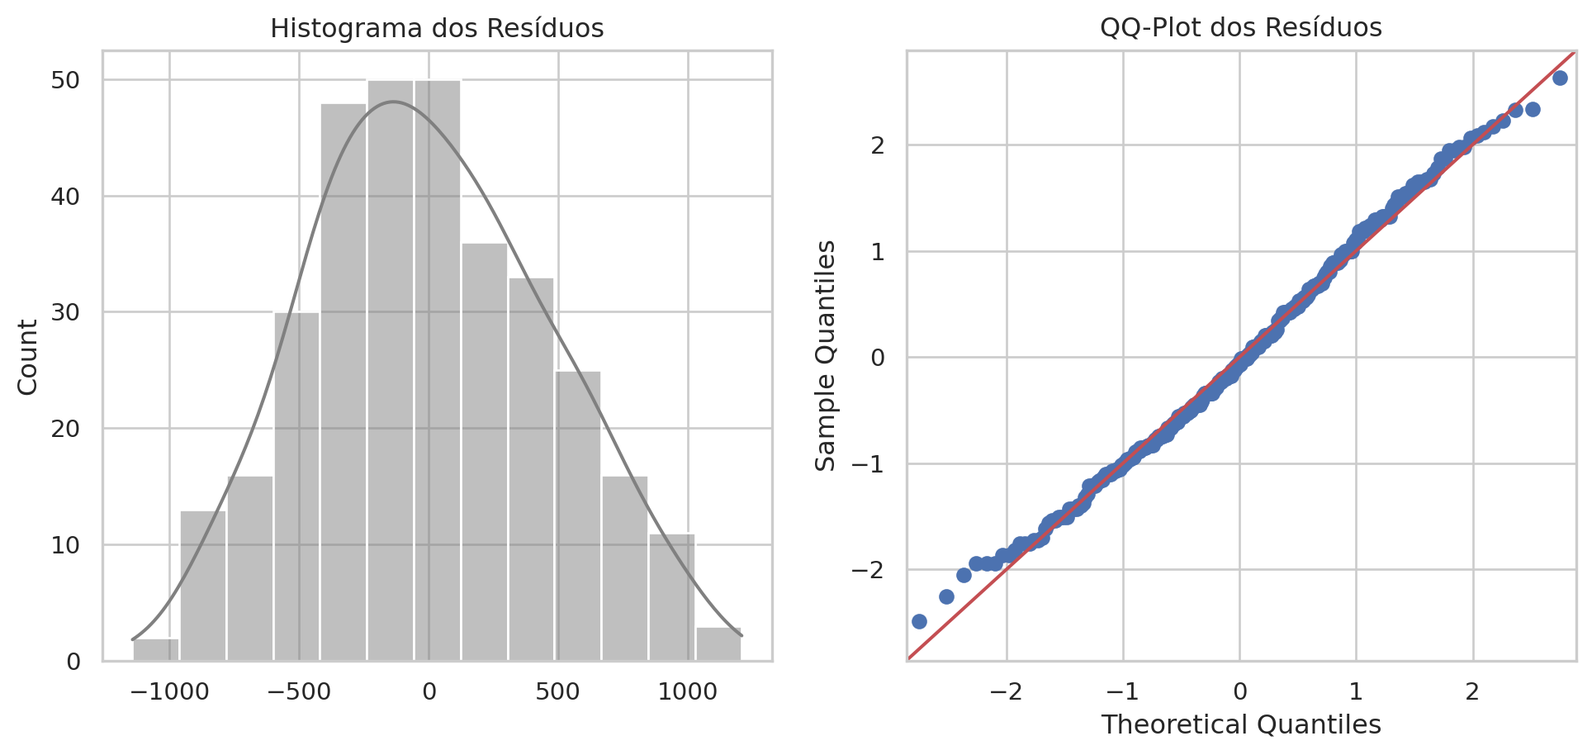
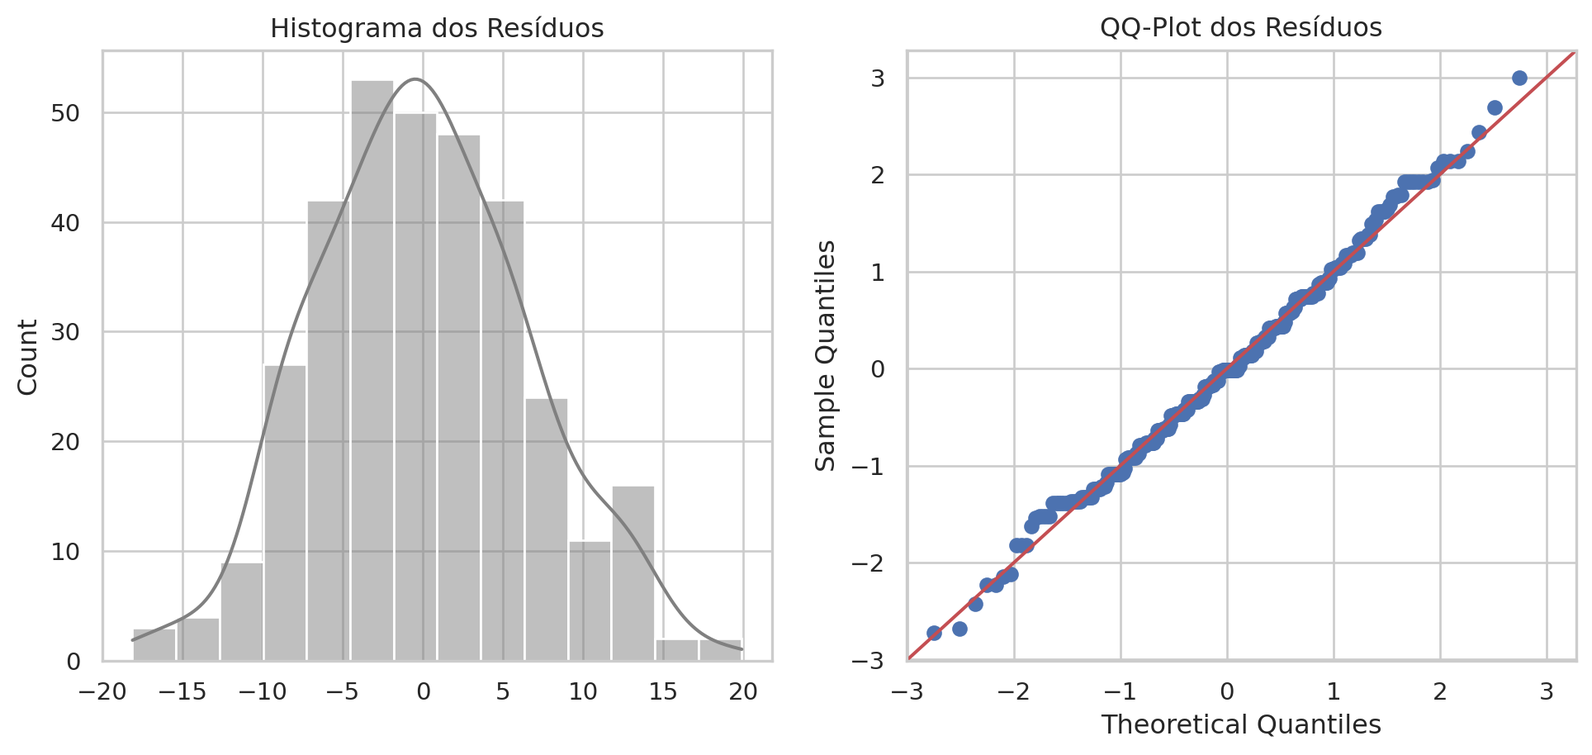
aula_03: fix example

diff --git a/aulas/dia_03/dia_03.html b/aulas/dia_03/dia_03.html
@@ -216,7 +216,7 @@ Matheus Pimenta
 </section>
 <section id="carregando-bibliotecas-e-dados" class="slide level2 center">
 <h2>Carregando Bibliotecas e Dados</h2>
-<div id="b4c679b3" class="cell" data-execution_count="1">
+<div id="4f0ebbf3" class="cell" data-execution_count="1">
 <div class="code-copy-outer-scaffold"><div class="sourceCode cell-code" id="cb1"><pre class="sourceCode numberSource python number-lines code-with-copy"><code class="sourceCode python"><span id="cb1-1"><a href=""></a><span class="im">import</span> pandas <span class="im">as</span> pd</span>
 <span id="cb1-2"><a href=""></a><span class="im">import</span> numpy <span class="im">as</span> np</span>
 <span id="cb1-3"><a href=""></a><span class="im">import</span> seaborn <span class="im">as</span> sns</span>
@@ -312,7 +312,7 @@ Matheus Pimenta
 </section>
 <section class="slide level2 center">
 
-<div id="422fee9e" class="cell" data-execution_count="2">
+<div id="02c14a70" class="cell" data-execution_count="2">
 <div class="code-copy-outer-scaffold"><div class="sourceCode cell-code" id="cb2"><pre class="sourceCode numberSource python number-lines code-with-copy"><code class="sourceCode python"><span id="cb2-1"><a href=""></a><span class="co"># 1. Selecionar dados (apenas da espécie Adelie para evitar bimodalidade)</span></span>
 <span id="cb2-2"><a href=""></a>dados_adelie <span class="op">=</span> penguins[penguins[<span class="st">'species'</span>] <span class="op">==</span> <span class="st">'Adelie'</span>][<span class="st">'flipper_length_mm'</span>]</span>
 <span id="cb2-3"><a href=""></a>media_empirica, desvio_empirico <span class="op">=</span> dados_adelie.mean(), dados_adelie.std()</span>
@@ -370,7 +370,7 @@ Média estimada: 190.10, Desvio Padrão: 6.50</code></pre>
 <p>Qual a probabilidade de encontrarmos um pinguim Adélia com nadadeira <strong>menor que 185 mm</strong>?</p>
 <p><span class="math display">\[ P(X &lt; 185) = \int_{-\infty}^{185} f(x)\,dx \]</span></p>
 <p>No Python, usamos a <strong>CDF (Cumulative Distribution Function)</strong>.</p>
-<div id="c0b1cf49" class="cell" data-execution_count="3">
+<div id="8e774a43" class="cell" data-execution_count="3">
 <div class="code-copy-outer-scaffold"><div class="sourceCode cell-code" id="cb4"><pre class="sourceCode numberSource python number-lines code-with-copy"><code class="sourceCode python"><span id="cb4-1"><a href=""></a>prob <span class="op">=</span> stats.norm.cdf(<span class="dv">185</span>, loc<span class="op">=</span>mu, scale<span class="op">=</span>sigma)</span>
 <span id="cb4-2"><a href=""></a><span class="bu">print</span>(<span class="ss">f"Probabilidade teórica (P &lt; 185mm): </span><span class="sc">{</span>prob<span class="sc">:.2%}</span><span class="ss">"</span>)</span>
 <span id="cb4-3"><a href=""></a></span>
@@ -385,7 +385,7 @@ Frequência nos dados reais: 18.49%</code></pre>
 </section>
 <section class="slide level2 center">
 
-<div id="ecd27ba7" class="cell" data-execution_count="4">
+<div id="42da7d04" class="cell" data-execution_count="4">
 <div class="code-copy-outer-scaffold"><div class="sourceCode cell-code" id="cb6"><pre class="sourceCode numberSource python number-lines code-with-copy"><code class="sourceCode python"><span id="cb6-1"><a href=""></a><span class="co"># Gráfico indicando a área sob a curva</span></span>
 <span id="cb6-2"><a href=""></a>plt.figure(figsize<span class="op">=</span>(<span class="dv">10</span>, <span class="dv">5</span>))</span>
 <span id="cb6-3"><a href=""></a>sns.histplot(dados_adelie, stat<span class="op">=</span><span class="st">"density"</span>, kde<span class="op">=</span><span class="va">False</span>, label<span class="op">=</span><span class="st">"Dados Empíricos"</span>, color<span class="op">=</span><span class="st">"skyblue"</span>)</span>
@@ -428,7 +428,7 @@ Frequência nos dados reais: 18.49%</code></pre>
 </section>
 <section id="simulando-a-binomial" class="slide level2 center">
 <h2>Simulando a Binomial</h2>
-<div id="0373079f" class="cell" data-execution_count="5">
+<div id="b14e5f96" class="cell" data-execution_count="5">
 <div class="code-copy-outer-scaffold"><div class="sourceCode cell-code" id="cb7"><pre class="sourceCode numberSource python number-lines code-with-copy"><code class="sourceCode python"><span id="cb7-1"><a href=""></a><span class="co"># 1. Definir parâmetros</span></span>
 <span id="cb7-2"><a href=""></a>n_tentativas <span class="op">=</span> <span class="dv">10</span>  <span class="co"># Tamanho da amostra que vamos coletar</span></span>
 <span id="cb7-3"><a href=""></a></span>
@@ -479,7 +479,7 @@ Frequência nos dados reais: 18.49%</code></pre>
 <blockquote>
 <p>Suponha que, historicamente, encontramos uma média de <strong>2 pinguins com peso muito baixo (&lt;3000 g)</strong> por dia de expedição. Qual a probabilidade de <strong>hoje encontrarmos 5</strong>?</p>
 </blockquote>
-<div id="7a4040be" class="cell" data-execution_count="6">
+<div id="7db29316" class="cell" data-execution_count="6">
 <div class="code-copy-outer-scaffold"><div class="sourceCode cell-code" id="cb9"><pre class="sourceCode numberSource python number-lines code-with-copy"><code class="sourceCode python"><span id="cb9-1"><a href=""></a><span class="co"># 1. Parâmetro Lambda</span></span>
 <span id="cb9-2"><a href=""></a>lambda_pinguins <span class="op">=</span> <span class="dv">2</span>  <span class="co"># Média esperada</span></span>
 <span id="cb9-3"><a href=""></a><span class="co"># 2. Calcular probabilidades</span></span>
@@ -537,7 +537,7 @@ Frequência nos dados reais: 18.49%</code></pre>
 <section id="visualizando-normal-vs-t-de-student" class="slide level2 center">
 <h2>Visualizando: Normal vs t de Student</h2>
 <p>Quanto menor o <span class="math inline">\(df\)</span>, mais “achatada” a curva e mais “gordas” as caudas. Conforme <span class="math inline">\(n \to \infty\)</span>, a t converge para a Normal.</p>
-<div id="455e81e8" class="cell" data-execution_count="7">
+<div id="64ab29b4" class="cell" data-execution_count="7">
 <div class="code-copy-outer-scaffold"><div class="sourceCode cell-code" id="cb10"><pre class="sourceCode numberSource python number-lines code-with-copy"><code class="sourceCode python"><span id="cb10-1"><a href=""></a>x <span class="op">=</span> np.linspace(<span class="op">-</span><span class="dv">4</span>, <span class="dv">4</span>, <span class="dv">200</span>)</span>
 <span id="cb10-2"><a href=""></a>plt.figure(figsize<span class="op">=</span>(<span class="dv">10</span>, <span class="dv">5</span>))</span>
 <span id="cb10-3"><a href=""></a></span>
@@ -724,7 +724,7 @@ Frequência nos dados reais: 18.49%</code></pre>
 <section id="análise-exploratória-visual" class="slide level2 center">
 <h2>1. Análise Exploratória Visual</h2>
 <p>Antes de qualquer teste, <strong>olhe os dados</strong>.</p>
-<div id="fa1914a6" class="cell" data-execution_count="8">
+<div id="3fc2e7e7" class="cell" data-execution_count="8">
 <div class="code-copy-outer-scaffold"><div class="sourceCode cell-code" id="cb11"><pre class="sourceCode numberSource python number-lines code-with-copy"><code class="sourceCode python"><span id="cb11-1"><a href=""></a><span class="co"># Filtrando os dados</span></span>
 <span id="cb11-2"><a href=""></a>adelie <span class="op">=</span> penguins[penguins[<span class="st">'species'</span>] <span class="op">==</span> <span class="st">'Adelie'</span>][<span class="st">'bill_length_mm'</span>]</span>
 <span id="cb11-3"><a href=""></a>chinstrap <span class="op">=</span> penguins[penguins[<span class="st">'species'</span>] <span class="op">==</span> <span class="st">'Chinstrap'</span>][<span class="st">'bill_length_mm'</span>]</span>
@@ -756,7 +756,7 @@ Frequência nos dados reais: 18.49%</code></pre>
 </div>
 </div></section><section class="slide level2 center">
 
-<div id="e7fe2162" class="cell" data-execution_count="9">
+<div id="b32d4e5b" class="cell" data-execution_count="9">
 <div class="code-copy-outer-scaffold"><div class="sourceCode cell-code" id="cb12"><pre class="sourceCode numberSource python number-lines code-with-copy"><code class="sourceCode python"><span id="cb12-1"><a href=""></a><span class="co"># Histogramas sobrepostos</span></span>
 <span id="cb12-2"><a href=""></a>plt.figure(figsize<span class="op">=</span>(<span class="dv">10</span>, <span class="dv">6</span>))</span>
 <span id="cb12-3"><a href=""></a>sns.histplot(adelie, color<span class="op">=</span><span class="st">'blue'</span>, label<span class="op">=</span><span class="st">'Adelie'</span>, stat<span class="op">=</span><span class="st">'density'</span>, kde<span class="op">=</span><span class="va">True</span>, alpha<span class="op">=</span><span class="fl">0.6</span>)</span>
@@ -788,7 +788,7 @@ Frequência nos dados reais: 18.49%</code></pre>
 
 <h3 id="teste-de-normalidade-shapirowilk">Teste de Normalidade (Shapiro–Wilk)</h3>
 <p><span class="math display">\[ H_0: \text{Os dados seguem uma distribuição Normal.} \]</span></p>
-<div id="7a6a8167" class="cell" data-execution_count="10">
+<div id="50393502" class="cell" data-execution_count="10">
 <div class="code-copy-outer-scaffold"><div class="sourceCode cell-code" id="cb13"><pre class="sourceCode numberSource python number-lines code-with-copy"><code class="sourceCode python"><span id="cb13-1"><a href=""></a><span class="co"># Testando normalidade para cada grupo</span></span>
 <span id="cb13-2"><a href=""></a>stat_ad, p_ad <span class="op">=</span> stats.shapiro(adelie)</span>
 <span id="cb13-3"><a href=""></a>stat_ch, p_ch <span class="op">=</span> stats.shapiro(chinstrap)</span>
@@ -811,7 +811,7 @@ Assumimos normalidade em ambos os grupos.</code></pre>
 
 <h3 id="visualizando-a-normalidade-qq-plot">Visualizando a Normalidade (QQ-Plot)</h3>
 <p>Compara quantis dos dados vs quantis teóricos. Se os pontos caem na diagonal, é normal.</p>
-<div id="64644972" class="cell" data-execution_count="11">
+<div id="1de6e6d9" class="cell" data-execution_count="11">
 <div class="code-copy-outer-scaffold"><div class="sourceCode cell-code" id="cb15"><pre class="sourceCode numberSource python number-lines code-with-copy"><code class="sourceCode python"><span id="cb15-1"><a href=""></a>fig, ax <span class="op">=</span> plt.subplots(<span class="dv">1</span>, <span class="dv">2</span>, figsize<span class="op">=</span>(<span class="dv">12</span>, <span class="dv">5</span>))</span>
 <span id="cb15-2"><a href=""></a></span>
 <span id="cb15-3"><a href=""></a>stats.probplot(adelie, dist<span class="op">=</span><span class="st">"norm"</span>, plot<span class="op">=</span>ax[<span class="dv">0</span>])</span>
@@ -848,7 +848,7 @@ Assumimos normalidade em ambos os grupos.</code></pre>
 </div>
 </div>
 </div>
-<div id="65894c09" class="cell" data-execution_count="12">
+<div id="eda215df" class="cell" data-execution_count="12">
 <div class="code-copy-outer-scaffold"><div class="sourceCode cell-code" id="cb16"><pre class="sourceCode numberSource python number-lines code-with-copy"><code class="sourceCode python"><span id="cb16-1"><a href=""></a><span class="co"># Teste de Levene para igualdade de variâncias</span></span>
 <span id="cb16-2"><a href=""></a>stat_lev, p_lev <span class="op">=</span> stats.levene(adelie, chinstrap)</span>
 <span id="cb16-3"><a href=""></a><span class="bu">print</span>(<span class="ss">f"Teste de Levene (Homocedasticidade): p=</span><span class="sc">{</span>p_lev<span class="sc">:.4f}</span><span class="ss">"</span>)</span>
@@ -872,7 +872,7 @@ P-valor: 3.15e-41</code></pre>
 </section>
 <section id="interpretação-dos-resultados" class="slide level2 center">
 <h2>4. Interpretação dos Resultados</h2>
-<div id="2ea4df0f" class="cell" data-execution_count="13">
+<div id="ac8f2ae9" class="cell" data-execution_count="13">
 <div class="code-copy-outer-scaffold"><div class="sourceCode cell-code" id="cb18"><pre class="sourceCode numberSource python number-lines code-with-copy"><code class="sourceCode python"><span id="cb18-1"><a href=""></a>alpha <span class="op">=</span> <span class="fl">0.05</span></span>
 <span id="cb18-2"><a href=""></a><span class="bu">print</span>(<span class="ss">f"Média Adelie: </span><span class="sc">{</span>adelie<span class="sc">.</span>mean()<span class="sc">:.2f}</span><span class="ss"> mm | Média Chinstrap: </span><span class="sc">{</span>chinstrap<span class="sc">.</span>mean()<span class="sc">:.2f}</span><span class="ss"> mm"</span>)</span>
 <span id="cb18-3"><a href=""></a><span class="bu">print</span>(<span class="ss">f"Diferença: </span><span class="sc">{</span>chinstrap<span class="sc">.</span>mean() <span class="op">-</span> adelie<span class="sc">.</span>mean()<span class="sc">:.2f}</span><span class="ss"> mm"</span>)</span>
@@ -907,7 +907,7 @@ Há evidência estatística de diferença significativa entre as médias.</code>
 </section>
 <section class="slide level2 center">
 
-<div id="6dad7a69" class="cell" data-execution_count="14">
+<div id="72040004" class="cell" data-execution_count="14">
 <div class="code-copy-outer-scaffold"><div class="sourceCode cell-code" id="cb20"><pre class="sourceCode numberSource python number-lines code-with-copy"><code class="sourceCode python"><span id="cb20-1"><a href=""></a>dados <span class="op">=</span> penguins[penguins[<span class="st">'species'</span>].isin([<span class="st">'Adelie'</span>, <span class="st">'Chinstrap'</span>])]</span>
 <span id="cb20-2"><a href=""></a>plt.figure(figsize<span class="op">=</span>(<span class="dv">10</span>, <span class="dv">6</span>))</span>
 <span id="cb20-3"><a href=""></a><span class="co"># Boxplot</span></span>
@@ -983,47 +983,47 @@ Há evidência estatística de diferença significativa entre as médias.</code>
 
 <p><strong>Hipóteses:</strong> <span class="math display">\[ H_0: \mu_1 = \mu_2 = \mu_3 \]</span> <span class="math display">\[ H_1: \exists\, i,j \text{ tal que } \mu_i \neq \mu_j \]</span></p>
 </section>
-<section id="estudo-de-caso-massa-corporal" class="slide level2 center">
-<h2>Estudo de Caso: Massa Corporal</h2>
-<p><strong>Pergunta:</strong> Existe diferença significativa na massa corporal (<code>body_mass_g</code>) entre as três espécies?</p>
-<div id="b2c72129" class="cell" data-execution_count="15">
+<section id="estudo-de-caso-tamanho-da-nadadeira" class="slide level2 center">
+<h2>Estudo de Caso: Tamanho da Nadadeira</h2>
+<p><strong>Pergunta:</strong> Existe diferença significativa no tamanho da nadadeira (<code>flipper_length_mm</code>) entre as três espécies?</p>
+<div id="5c877ac5" class="cell" data-execution_count="15">
 <div class="code-copy-outer-scaffold"><div class="sourceCode cell-code" id="cb21"><pre class="sourceCode numberSource python number-lines code-with-copy"><code class="sourceCode python"><span id="cb21-1"><a href=""></a>plt.figure(figsize<span class="op">=</span>(<span class="dv">10</span>, <span class="dv">6</span>))</span>
 <span id="cb21-2"><a href=""></a>sns.boxplot(</span>
-<span id="cb21-3"><a href=""></a>    x<span class="op">=</span><span class="st">'species'</span>, y<span class="op">=</span><span class="st">'body_mass_g'</span>, hue<span class="op">=</span><span class="st">'species'</span>,</span>
+<span id="cb21-3"><a href=""></a>    x<span class="op">=</span><span class="st">'species'</span>, y<span class="op">=</span><span class="st">'flipper_length_mm'</span>, hue<span class="op">=</span><span class="st">'species'</span>,</span>
 <span id="cb21-4"><a href=""></a>    data<span class="op">=</span>penguins, palette<span class="op">=</span><span class="st">"Set2"</span>, showmeans<span class="op">=</span><span class="va">True</span></span>
 <span id="cb21-5"><a href=""></a>)</span>
 <span id="cb21-6"><a href=""></a>sns.stripplot(</span>
-<span id="cb21-7"><a href=""></a>    x<span class="op">=</span><span class="st">'species'</span>, y<span class="op">=</span><span class="st">'body_mass_g'</span>, </span>
+<span id="cb21-7"><a href=""></a>    x<span class="op">=</span><span class="st">'species'</span>, y<span class="op">=</span><span class="st">'flipper_length_mm'</span>, </span>
 <span id="cb21-8"><a href=""></a>    data<span class="op">=</span>penguins, color<span class="op">=</span><span class="st">".25"</span>, </span>
 <span id="cb21-9"><a href=""></a>    alpha<span class="op">=</span><span class="fl">0.5</span>, jitter<span class="op">=</span><span class="va">True</span></span>
 <span id="cb21-10"><a href=""></a>)</span>
-<span id="cb21-11"><a href=""></a>plt.title(<span class="st">'Distribuição de Massa Corporal por Espécie'</span>)</span>
+<span id="cb21-11"><a href=""></a>plt.title(<span class="st">'Distribuição do Tamanho da Nadadeira por Espécie'</span>)</span>
 <span id="cb21-12"><a href=""></a>plt.show()</span></code></pre></div><button title="Copiar para a área de transferência" class="code-copy-button"><i class="bi"></i></button></div>
 </div>
 
 </section>
-<section id="estudo-de-caso-massa-corporal-output" class="slide level2 output-location-slide center"><h2>Estudo de Caso: Massa Corporal</h2><div class="cell output-location-slide" data-execution_count="15">
+<section id="estudo-de-caso-tamanho-da-nadadeira-output" class="slide level2 output-location-slide center"><h2>Estudo de Caso: Tamanho da Nadadeira</h2><div class="cell output-location-slide" data-execution_count="15">
 <div class="cell-output cell-output-display">
 <div>
 <figure>
-<p><img data-src="dia_03_files/figure-revealjs/cell-16-output-1.png" width="835" height="531"></p>
+<p><img data-src="dia_03_files/figure-revealjs/cell-16-output-1.png" width="825" height="531"></p>
 </figure>
 </div>
 </div>
 </div></section><section id="construindo-o-modelo-ols" class="slide level2 center">
 <h2>2. Construindo o Modelo (OLS)</h2>
-<p>Usaremos <code>statsmodels</code>. Sintaxe: <code>body_mass_g ~ species</code> (“Massa explicada pela espécie”).</p>
-<div id="783be97c" class="cell" data-execution_count="16">
+<p>Usaremos <code>statsmodels</code>. Sintaxe: <code>flipper_length_mm ~ species</code> (“Tamanho da nadadeira explicado pela espécie”).</p>
+<div id="0514a141" class="cell" data-execution_count="16">
 <div class="code-copy-outer-scaffold"><div class="sourceCode cell-code" id="cb22"><pre class="sourceCode numberSource python number-lines code-with-copy"><code class="sourceCode python"><span id="cb22-1"><a href=""></a><span class="co"># Ajuste do modelo (Ordinary Least Squares)</span></span>
-<span id="cb22-2"><a href=""></a>modelo_anova <span class="op">=</span> ols(<span class="st">'body_mass_g ~ species'</span>, data<span class="op">=</span>penguins).fit()</span>
+<span id="cb22-2"><a href=""></a>modelo_anova <span class="op">=</span> ols(<span class="st">'flipper_length_mm ~ species'</span>, data<span class="op">=</span>penguins).fit()</span>
 <span id="cb22-3"><a href=""></a></span>
 <span id="cb22-4"><a href=""></a><span class="co"># Tabela ANOVA</span></span>
 <span id="cb22-5"><a href=""></a>tabela_anova <span class="op">=</span> sm.stats.anova_lm(modelo_anova, typ<span class="op">=</span><span class="dv">2</span>)</span>
 <span id="cb22-6"><a href=""></a><span class="bu">print</span>(tabela_anova)</span></code></pre></div><button title="Copiar para a área de transferência" class="code-copy-button"><i class="bi"></i></button></div>
 <div class="cell-output cell-output-stdout">
-<pre><code>                sum_sq     df           F        PR(&gt;F)
-species   1.451902e+08    2.0  341.894895  3.744505e-81
-Residual  7.006945e+07  330.0         NaN           NaN</code></pre>
+<pre><code>                sum_sq     df           F         PR(&gt;F)
+species   50525.883615    2.0  567.406992  1.587418e-107
+Residual  14692.753022  330.0         NaN            NaN</code></pre>
 </div>
 </div>
 <p><strong>Interpretação:</strong> Observe a coluna <strong>PR(&gt;F)</strong>. Se <span class="math inline">\(p &lt; 0.05\)</span>, rejeitamos <span class="math inline">\(H_0\)</span> (existe diferença significativa).</p>
@@ -1052,7 +1052,7 @@ Residual  7.006945e+07  330.0         NaN           NaN</code></pre>
 <section class="slide level2 center">
 
 <h3 id="diagnóstico-de-resíduos">Diagnóstico de Resíduos</h3>
-<div id="b1856875" class="cell" data-execution_count="17">
+<div id="c54d651c" class="cell" data-execution_count="17">
 <div class="code-copy-outer-scaffold"><div class="sourceCode cell-code" id="cb24"><pre class="sourceCode numberSource python number-lines code-with-copy"><code class="sourceCode python"><span id="cb24-1"><a href=""></a>residuos <span class="op">=</span> modelo_anova.resid</span>
 <span id="cb24-2"><a href=""></a></span>
 <span id="cb24-3"><a href=""></a><span class="co"># 1. Normalidade dos Resíduos (Shapiro-Wilk)</span></span>
@@ -1061,9 +1061,9 @@ Residual  7.006945e+07  330.0         NaN           NaN</code></pre>
 <span id="cb24-6"><a href=""></a></span>
 <span id="cb24-7"><a href=""></a><span class="co"># 2. Homocedasticidade (Levene)</span></span>
 <span id="cb24-8"><a href=""></a>stat_lev, p_lev <span class="op">=</span> stats.levene(</span>
-<span id="cb24-9"><a href=""></a>    penguins[penguins[<span class="st">'species'</span>] <span class="op">==</span> <span class="st">'Adelie'</span>][<span class="st">'body_mass_g'</span>],</span>
-<span id="cb24-10"><a href=""></a>    penguins[penguins[<span class="st">'species'</span>] <span class="op">==</span> <span class="st">'Chinstrap'</span>][<span class="st">'body_mass_g'</span>],</span>
-<span id="cb24-11"><a href=""></a>    penguins[penguins[<span class="st">'species'</span>] <span class="op">==</span> <span class="st">'Gentoo'</span>][<span class="st">'body_mass_g'</span>]</span>
+<span id="cb24-9"><a href=""></a>    penguins[penguins[<span class="st">'species'</span>] <span class="op">==</span> <span class="st">'Adelie'</span>][<span class="st">'flipper_length_mm'</span>],</span>
+<span id="cb24-10"><a href=""></a>    penguins[penguins[<span class="st">'species'</span>] <span class="op">==</span> <span class="st">'Chinstrap'</span>][<span class="st">'flipper_length_mm'</span>],</span>
+<span id="cb24-11"><a href=""></a>    penguins[penguins[<span class="st">'species'</span>] <span class="op">==</span> <span class="st">'Gentoo'</span>][<span class="st">'flipper_length_mm'</span>]</span>
 <span id="cb24-12"><a href=""></a>)</span>
 <span id="cb24-13"><a href=""></a><span class="bu">print</span>(<span class="ss">f"Teste de Levene: p=</span><span class="sc">{</span>p_lev<span class="sc">:.4f}</span><span class="ss">"</span>)</span>
 <span id="cb24-14"><a href=""></a></span>
@@ -1079,8 +1079,8 @@ Residual  7.006945e+07  330.0         NaN           NaN</code></pre>
 </section>
 <section id="" class="slide level2 output-location-slide center"><div class="cell output-location-slide" data-execution_count="17">
 <div class="cell-output cell-output-stdout">
-<pre><code>Shapiro-Wilk nos Resíduos: p=0.0783
-Teste de Levene: p=0.0064</code></pre>
+<pre><code>Shapiro-Wilk nos Resíduos: p=0.2778
+Teste de Levene: p=0.6426</code></pre>
 </div>
 <div class="cell-output cell-output-display">
 <div>
@@ -1106,21 +1106,21 @@ Teste de Levene: p=0.0064</code></pre>
 <section id="post-hoc-tukey-hsd" class="slide level2 center">
 <h2>4. Post-Hoc: Tukey HSD</h2>
 <p>A ANOVA disse “há diferença”, mas onde? O teste de Tukey (<em>Honestly Significant Difference</em>) compara par a par, ajustando o p-valor.</p>
-<div id="3862f622" class="cell" data-execution_count="18">
-<div class="code-copy-outer-scaffold"><div class="sourceCode cell-code" id="cb26"><pre class="sourceCode numberSource python number-lines code-with-copy"><code class="sourceCode python"><span id="cb26-1"><a href=""></a>tukey <span class="op">=</span> pairwise_tukeyhsd(endog<span class="op">=</span>penguins[<span class="st">'body_mass_g'</span>],</span>
+<div id="ce4c48cb" class="cell" data-execution_count="18">
+<div class="code-copy-outer-scaffold"><div class="sourceCode cell-code" id="cb26"><pre class="sourceCode numberSource python number-lines code-with-copy"><code class="sourceCode python"><span id="cb26-1"><a href=""></a>tukey <span class="op">=</span> pairwise_tukeyhsd(endog<span class="op">=</span>penguins[<span class="st">'flipper_length_mm'</span>],</span>
 <span id="cb26-2"><a href=""></a>                          groups<span class="op">=</span>penguins[<span class="st">'species'</span>],</span>
 <span id="cb26-3"><a href=""></a>                          alpha<span class="op">=</span><span class="fl">0.05</span>)</span>
 <span id="cb26-4"><a href=""></a></span>
 <span id="cb26-5"><a href=""></a><span class="bu">print</span>(tukey)</span></code></pre></div><button title="Copiar para a área de transferência" class="code-copy-button"><i class="bi"></i></button></div>
 <div class="cell-output cell-output-stdout">
-<pre><code>      Multiple Comparison of Means - Tukey HSD, FWER=0.05      
-===============================================================
-  group1    group2   meandiff p-adj    lower     upper   reject
----------------------------------------------------------------
-   Adelie Chinstrap   26.9239 0.9164 -132.3528  186.2005  False
-   Adelie    Gentoo 1386.2726    0.0 1252.2897 1520.2554   True
-Chinstrap    Gentoo 1359.3487    0.0 1194.4304 1524.2671   True
----------------------------------------------------------------</code></pre>
+<pre><code>   Multiple Comparison of Means - Tukey HSD, FWER=0.05   
+=========================================================
+  group1    group2  meandiff p-adj  lower   upper  reject
+---------------------------------------------------------
+   Adelie Chinstrap   5.7208   0.0  3.4144  8.0272   True
+   Adelie    Gentoo  27.1326   0.0 25.1924 29.0727   True
+Chinstrap    Gentoo  21.4118   0.0 19.0236 23.7999   True
+---------------------------------------------------------</code></pre>
 </div>
 </div>
 <p><strong>reject=True:</strong> Diferença significativa. <strong>meandiff:</strong> Tamanho da diferença.</p>
@@ -1129,7 +1129,7 @@ Chinstrap    Gentoo 1359.3487    0.0 1194.4304 1524.2671   True
 
 <h3 id="visualizando-intervalos-de-confiança-tukey">Visualizando Intervalos de Confiança (Tukey)</h3>
 <p>Se o intervalo não cruza a linha pontilhada (zero), a diferença é significativa.</p>
-<div id="8483d533" class="cell" data-execution_count="19">
+<div id="71ac1cc4" class="cell" data-execution_count="19">
 <div class="code-copy-outer-scaffold"><div class="sourceCode cell-code" id="cb28"><pre class="sourceCode numberSource python number-lines code-with-copy"><code class="sourceCode python"><span id="cb28-1"><a href=""></a>tukey_df <span class="op">=</span> pd.DataFrame(tukey._results_table.data[<span class="dv">1</span>:],columns<span class="op">=</span>tukey._results_table.data[<span class="dv">0</span>])</span>
 <span id="cb28-2"><a href=""></a><span class="co"># Criar rótulo da comparação</span></span>
 <span id="cb28-3"><a href=""></a>tukey_df[<span class="st">'comparacao'</span>] <span class="op">=</span> tukey_df[<span class="st">'group1'</span>] <span class="op">+</span> <span class="st">" vs "</span> <span class="op">+</span> tukey_df[<span class="st">'group2'</span>]</span>
@@ -1154,7 +1154,7 @@ Chinstrap    Gentoo 1359.3487    0.0 1194.4304 1524.2671   True
 <span id="cb28-22"><a href=""></a>plt.axvline(x<span class="op">=</span><span class="dv">0</span>,color<span class="op">=</span><span class="st">'black'</span>,linestyle<span class="op">=</span><span class="st">'--'</span>,linewidth<span class="op">=</span><span class="dv">1</span>)</span>
 <span id="cb28-23"><a href=""></a><span class="co"># Configurações dos eixos</span></span>
 <span id="cb28-24"><a href=""></a>plt.yticks(y_pos, tukey_df[<span class="st">'comparacao'</span>])</span>
-<span id="cb28-25"><a href=""></a>plt.xlabel(<span class="st">'Diferença Média da Massa Corporal (g)'</span>)</span>
+<span id="cb28-25"><a href=""></a>plt.xlabel(<span class="st">'Diferença Média do tamanho da nadadeira (mm)'</span>)</span>
 <span id="cb28-26"><a href=""></a>plt.ylabel(<span class="st">'Comparação entre Espécies'</span>)</span>
 <span id="cb28-27"><a href=""></a>plt.title(</span>
 <span id="cb28-28"><a href=""></a>    <span class="st">'Teste de Tukey – Comparações Par-a-Par (95% IC)</span><span class="ch">\n</span><span class="st">'</span></span>
@@ -1182,57 +1182,56 @@ Chinstrap    Gentoo 1359.3487    0.0 1194.4304 1524.2671   True
 </div>
 </div></section><section class="slide level2 center">
 
-<div id="444f01a3" class="cell" data-execution_count="20">
+<div id="640b560c" class="cell" data-execution_count="20">
 <div class="code-copy-outer-scaffold"><div class="sourceCode cell-code" id="cb29"><pre class="sourceCode numberSource python number-lines code-with-copy"><code class="sourceCode python"><span id="cb29-1"><a href=""></a><span class="co"># Preparando os dados</span></span>
 <span id="cb29-2"><a href=""></a>species <span class="op">=</span> [<span class="st">'Adelie'</span>, <span class="st">'Chinstrap'</span>, <span class="st">'Gentoo'</span>]</span>
-<span id="cb29-3"><a href=""></a>data_groups <span class="op">=</span> [penguins[penguins[<span class="st">'species'</span>] <span class="op">==</span> s][<span class="st">'body_mass_g'</span>] <span class="cf">for</span> s <span class="kw">in</span> species]</span>
+<span id="cb29-3"><a href=""></a>data_groups <span class="op">=</span> [penguins[penguins[<span class="st">'species'</span>] <span class="op">==</span> s][<span class="st">'flipper_length_mm'</span>] <span class="cf">for</span> s <span class="kw">in</span> species]</span>
 <span id="cb29-4"><a href=""></a></span>
 <span id="cb29-5"><a href=""></a><span class="co"># Configuração do gráfico</span></span>
 <span id="cb29-6"><a href=""></a>plt.figure(figsize<span class="op">=</span>(<span class="dv">10</span>, <span class="dv">7</span>))</span>
 <span id="cb29-7"><a href=""></a></span>
 <span id="cb29-8"><a href=""></a>ax <span class="op">=</span> sns.boxplot(</span>
-<span id="cb29-9"><a href=""></a>    x<span class="op">=</span><span class="st">'species'</span>, y<span class="op">=</span><span class="st">'body_mass_g'</span>, hue<span class="op">=</span><span class="st">'species'</span>,</span>
+<span id="cb29-9"><a href=""></a>    x<span class="op">=</span><span class="st">'species'</span>, y<span class="op">=</span><span class="st">'flipper_length_mm'</span>, hue<span class="op">=</span><span class="st">'species'</span>,</span>
 <span id="cb29-10"><a href=""></a>    data<span class="op">=</span>penguins, palette<span class="op">=</span><span class="st">"Set2"</span>, showmeans<span class="op">=</span><span class="va">True</span>, legend<span class="op">=</span><span class="va">False</span></span>
 <span id="cb29-11"><a href=""></a>)</span>
-<span id="cb29-12"><a href=""></a>sns.stripplot(x<span class="op">=</span><span class="st">'species'</span>, y<span class="op">=</span><span class="st">'body_mass_g'</span>, data<span class="op">=</span>penguins, color<span class="op">=</span><span class="st">".25"</span>, alpha<span class="op">=</span><span class="fl">0.5</span>, jitter<span class="op">=</span><span class="va">True</span>)</span>
-<span id="cb29-13"><a href=""></a></span>
-<span id="cb29-14"><a href=""></a><span class="co"># Função auxiliar para desenhar a barra de significância</span></span>
-<span id="cb29-15"><a href=""></a><span class="kw">def</span> annotate_significance(x1, x2, y, p_value):</span>
-<span id="cb29-16"><a href=""></a>    h <span class="op">=</span> <span class="dv">100</span>  <span class="co"># altura da barra (bracket)</span></span>
-<span id="cb29-17"><a href=""></a>    col <span class="op">=</span> <span class="st">'k'</span> <span class="cf">if</span> p_value <span class="op">&lt;</span> <span class="fl">0.05</span> <span class="cf">else</span> <span class="st">'gray'</span></span>
-<span id="cb29-18"><a href=""></a>    </span>
-<span id="cb29-19"><a href=""></a>    <span class="co"># Desenha a linha</span></span>
-<span id="cb29-20"><a href=""></a>    plt.plot([x1, x1, x2, x2], [y, y<span class="op">+</span>h, y<span class="op">+</span>h, y], lw<span class="op">=</span><span class="fl">1.5</span>, c<span class="op">=</span>col)</span>
-<span id="cb29-21"><a href=""></a>    </span>
-<span id="cb29-22"><a href=""></a>    <span class="co"># Define o texto (* ou n.s.)</span></span>
-<span id="cb29-23"><a href=""></a>    <span class="cf">if</span> p_value <span class="op">&lt;</span> <span class="fl">0.001</span>: text <span class="op">=</span> <span class="st">"***"</span></span>
-<span id="cb29-24"><a href=""></a>    <span class="cf">elif</span> p_value <span class="op">&lt;</span> <span class="fl">0.01</span>: text <span class="op">=</span> <span class="st">"**"</span></span>
-<span id="cb29-25"><a href=""></a>    <span class="cf">elif</span> p_value <span class="op">&lt;</span> <span class="fl">0.05</span>: text <span class="op">=</span> <span class="st">"*"</span></span>
-<span id="cb29-26"><a href=""></a>    <span class="cf">else</span>: text <span class="op">=</span> <span class="st">"n.s."</span></span>
-<span id="cb29-27"><a href=""></a>    </span>
-<span id="cb29-28"><a href=""></a>    plt.text((x1<span class="op">+</span>x2)<span class="op">*</span><span class="fl">.5</span>, y<span class="op">+</span>h, text, ha<span class="op">=</span><span class="st">'center'</span>, va<span class="op">=</span><span class="st">'bottom'</span>, color<span class="op">=</span>col, fontsize<span class="op">=</span><span class="dv">12</span>)</span>
-<span id="cb29-29"><a href=""></a></span>
-<span id="cb29-30"><a href=""></a><span class="co"># Definindo alturas para não sobrepor as barras</span></span>
-<span id="cb29-31"><a href=""></a>y_max <span class="op">=</span> penguins[<span class="st">'body_mass_g'</span>].<span class="bu">max</span>() <span class="op">+</span> <span class="dv">200</span></span>
-<span id="cb29-32"><a href=""></a>h_step <span class="op">=</span> <span class="dv">400</span> </span>
-<span id="cb29-33"><a href=""></a></span>
-<span id="cb29-34"><a href=""></a><span class="co"># Comparações manuais (t-test independente)</span></span>
-<span id="cb29-35"><a href=""></a><span class="co"># 1. Adelie (0) vs Chinstrap (1)</span></span>
-<span id="cb29-36"><a href=""></a>stat, p1 <span class="op">=</span> stats.ttest_ind(data_groups[<span class="dv">0</span>], data_groups[<span class="dv">1</span>])</span>
-<span id="cb29-37"><a href=""></a>annotate_significance(<span class="dv">0</span>, <span class="dv">1</span>, y_max, p1)</span>
-<span id="cb29-38"><a href=""></a></span>
-<span id="cb29-39"><a href=""></a><span class="co"># 2. Chinstrap (1) vs Gentoo (2)</span></span>
-<span id="cb29-40"><a href=""></a>stat, p2 <span class="op">=</span> stats.ttest_ind(data_groups[<span class="dv">1</span>], data_groups[<span class="dv">2</span>])</span>
-<span id="cb29-41"><a href=""></a>annotate_significance(<span class="dv">1</span>, <span class="dv">2</span>, y_max, p2)</span>
-<span id="cb29-42"><a href=""></a></span>
-<span id="cb29-43"><a href=""></a><span class="co"># 3. Adelie (0) vs Gentoo (2) - Barra mais alta</span></span>
-<span id="cb29-44"><a href=""></a>stat, p3 <span class="op">=</span> stats.ttest_ind(data_groups[<span class="dv">0</span>], data_groups[<span class="dv">2</span>])</span>
-<span id="cb29-45"><a href=""></a>annotate_significance(<span class="dv">0</span>, <span class="dv">2</span>, y_max <span class="op">+</span> h_step, p3)</span>
-<span id="cb29-46"><a href=""></a></span>
-<span id="cb29-47"><a href=""></a><span class="co"># Ajuste do eixo Y para caber as anotações</span></span>
-<span id="cb29-48"><a href=""></a>plt.ylim(penguins[<span class="st">'body_mass_g'</span>].<span class="bu">min</span>() <span class="op">-</span> <span class="dv">200</span>, y_max <span class="op">+</span> h_step <span class="op">+</span> <span class="dv">500</span>)</span>
-<span id="cb29-49"><a href=""></a>plt.title(<span class="st">'Massa Corporal: Comparações Estatísticas'</span>, fontsize<span class="op">=</span><span class="dv">14</span>)</span>
-<span id="cb29-50"><a href=""></a>plt.show()</span></code></pre></div><button title="Copiar para a área de transferência" class="code-copy-button"><i class="bi"></i></button></div>
+<span id="cb29-12"><a href=""></a>sns.stripplot(x<span class="op">=</span><span class="st">'species'</span>, y<span class="op">=</span><span class="st">'flipper_length_mm'</span>, data<span class="op">=</span>penguins, color<span class="op">=</span><span class="st">".25"</span>, alpha<span class="op">=</span><span class="fl">0.5</span>, jitter<span class="op">=</span><span class="va">True</span>)</span>
+<span id="cb29-13"><a href=""></a><span class="co"># Função auxiliar para desenhar a barra de significância</span></span>
+<span id="cb29-14"><a href=""></a><span class="kw">def</span> annotate_significance(x1, x2, y, p_value):</span>
+<span id="cb29-15"><a href=""></a>    h <span class="op">=</span> <span class="dv">3</span>  <span class="co"># altura da barra (bracket)</span></span>
+<span id="cb29-16"><a href=""></a>    col <span class="op">=</span> <span class="st">'k'</span> <span class="cf">if</span> p_value <span class="op">&lt;</span> <span class="fl">0.05</span> <span class="cf">else</span> <span class="st">'gray'</span></span>
+<span id="cb29-17"><a href=""></a>    </span>
+<span id="cb29-18"><a href=""></a>    <span class="co"># Desenha a linha</span></span>
+<span id="cb29-19"><a href=""></a>    plt.plot([x1, x1, x2, x2], [y, y<span class="op">+</span>h, y<span class="op">+</span>h, y], lw<span class="op">=</span><span class="fl">1.5</span>, c<span class="op">=</span>col)</span>
+<span id="cb29-20"><a href=""></a>    </span>
+<span id="cb29-21"><a href=""></a>    <span class="co"># Define o texto (* ou n.s.)</span></span>
+<span id="cb29-22"><a href=""></a>    <span class="cf">if</span> p_value <span class="op">&lt;</span> <span class="fl">0.001</span>: text <span class="op">=</span> <span class="st">"***"</span></span>
+<span id="cb29-23"><a href=""></a>    <span class="cf">elif</span> p_value <span class="op">&lt;</span> <span class="fl">0.01</span>: text <span class="op">=</span> <span class="st">"**"</span></span>
+<span id="cb29-24"><a href=""></a>    <span class="cf">elif</span> p_value <span class="op">&lt;</span> <span class="fl">0.05</span>: text <span class="op">=</span> <span class="st">"*"</span></span>
+<span id="cb29-25"><a href=""></a>    <span class="cf">else</span>: text <span class="op">=</span> <span class="st">"n.s."</span></span>
+<span id="cb29-26"><a href=""></a>    </span>
+<span id="cb29-27"><a href=""></a>    plt.text((x1<span class="op">+</span>x2)<span class="op">*</span><span class="fl">.5</span>, y<span class="op">+</span>h, text, ha<span class="op">=</span><span class="st">'center'</span>, va<span class="op">=</span><span class="st">'bottom'</span>, color<span class="op">=</span>col, fontsize<span class="op">=</span><span class="dv">12</span>)</span>
+<span id="cb29-28"><a href=""></a></span>
+<span id="cb29-29"><a href=""></a><span class="co"># Definindo alturas para não sobrepor as barras</span></span>
+<span id="cb29-30"><a href=""></a>y_max <span class="op">=</span> penguins[<span class="st">'flipper_length_mm'</span>].<span class="bu">max</span>() <span class="op">+</span> <span class="dv">10</span></span>
+<span id="cb29-31"><a href=""></a>h_step <span class="op">=</span> <span class="dv">12</span> </span>
+<span id="cb29-32"><a href=""></a></span>
+<span id="cb29-33"><a href=""></a><span class="co"># Comparações manuais (t-test independente)</span></span>
+<span id="cb29-34"><a href=""></a><span class="co"># 1. Adelie (0) vs Chinstrap (1)</span></span>
+<span id="cb29-35"><a href=""></a>stat, p1 <span class="op">=</span> stats.ttest_ind(data_groups[<span class="dv">0</span>], data_groups[<span class="dv">1</span>])</span>
+<span id="cb29-36"><a href=""></a>annotate_significance(<span class="dv">0</span>, <span class="dv">1</span>, y_max, p1)</span>
+<span id="cb29-37"><a href=""></a></span>
+<span id="cb29-38"><a href=""></a><span class="co"># 2. Chinstrap (1) vs Gentoo (2)</span></span>
+<span id="cb29-39"><a href=""></a>stat, p2 <span class="op">=</span> stats.ttest_ind(data_groups[<span class="dv">1</span>], data_groups[<span class="dv">2</span>])</span>
+<span id="cb29-40"><a href=""></a>annotate_significance(<span class="dv">1</span>, <span class="dv">2</span>, y_max, p2)</span>
+<span id="cb29-41"><a href=""></a></span>
+<span id="cb29-42"><a href=""></a><span class="co"># 3. Adelie (0) vs Gentoo (2) - Barra mais alta</span></span>
+<span id="cb29-43"><a href=""></a>stat, p3 <span class="op">=</span> stats.ttest_ind(data_groups[<span class="dv">0</span>], data_groups[<span class="dv">2</span>])</span>
+<span id="cb29-44"><a href=""></a>annotate_significance(<span class="dv">0</span>, <span class="dv">2</span>, y_max <span class="op">+</span> h_step, p3)</span>
+<span id="cb29-45"><a href=""></a></span>
+<span id="cb29-46"><a href=""></a><span class="co"># Ajuste do eixo Y para caber as anotações</span></span>
+<span id="cb29-47"><a href=""></a>plt.ylim(penguins[<span class="st">'flipper_length_mm'</span>].<span class="bu">min</span>() <span class="op">-</span> <span class="dv">20</span>, y_max <span class="op">+</span> h_step <span class="op">+</span> <span class="dv">50</span>)</span>
+<span id="cb29-48"><a href=""></a>plt.title(<span class="st">'Tamanho da Nadadeira: Comparações Estatísticas'</span>, fontsize<span class="op">=</span><span class="dv">14</span>)</span>
+<span id="cb29-49"><a href=""></a>plt.show()</span></code></pre></div><button title="Copiar para a área de transferência" class="code-copy-button"><i class="bi"></i></button></div>
 </div>
 
 </section>
@@ -1240,7 +1239,7 @@ Chinstrap    Gentoo 1359.3487    0.0 1194.4304 1524.2671   True
 <div class="cell-output cell-output-display">
 <div>
 <figure>
-<p><img data-src="dia_03_files/figure-revealjs/cell-21-output-1.png" width="835" height="607"></p>
+<p><img data-src="dia_03_files/figure-revealjs/cell-21-output-1.png" width="825" height="607"></p>
 </figure>
 </div>
 </div>
@@ -1332,7 +1331,7 @@ Visualizar (EDA) → Checar pressupostos → Rodar o teste → Interpretar o tam
 <li>Se significativo, faça o teste de Tukey.</li>
 </ol>
 <!-- end list -->
-<div id="d7720717" class="cell" data-execution_count="21">
+<div id="6efebf9d" class="cell" data-execution_count="21">
 <div class="code-copy-outer-scaffold"><div class="sourceCode cell-code" id="cb30"><pre class="sourceCode numberSource python number-lines code-with-copy"><code class="sourceCode python"><span id="cb30-1"><a href=""></a><span class="co"># Dica de código para começar</span></span>
 <span id="cb30-2"><a href=""></a>iris <span class="op">=</span> sns.load_dataset(<span class="st">'iris'</span>)</span>
 <span id="cb30-3"><a href=""></a>modelo_iris <span class="op">=</span> ols(<span class="st">'petal_length ~ species'</span>, data<span class="op">=</span>iris).fit()</span>
